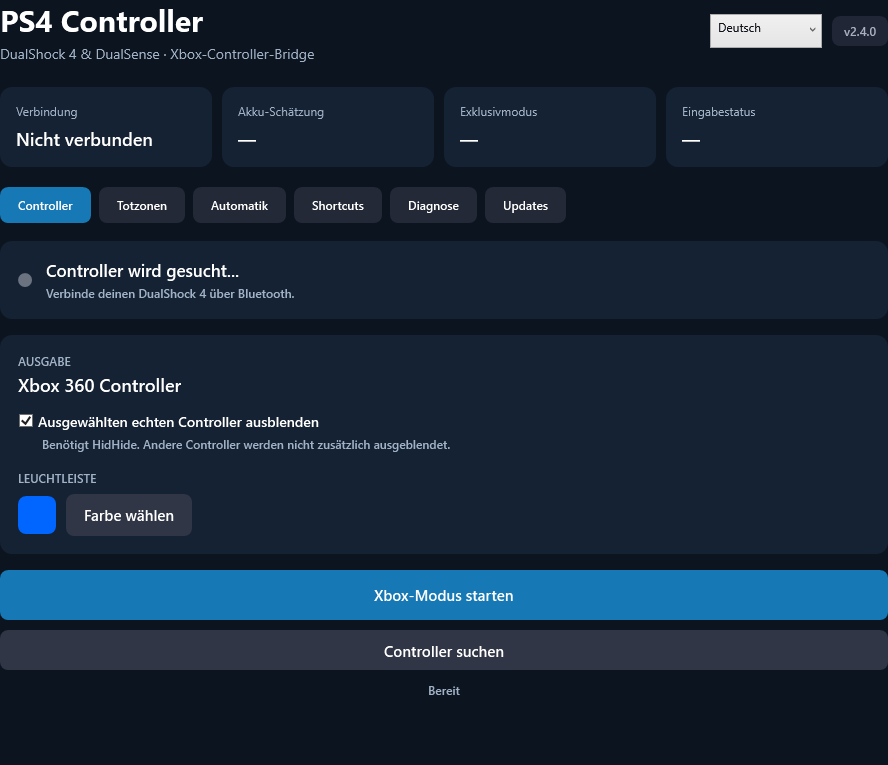
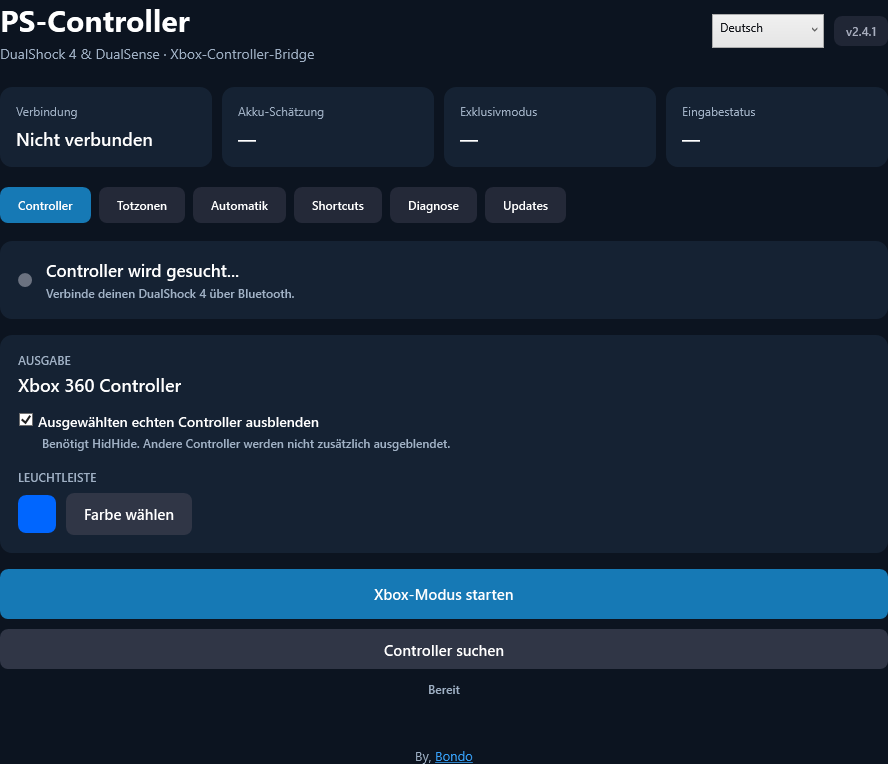
Brand website as PS-Controller

diff --git a/index.html b/index.html
@@ -1,1 +1,1 @@
-<!doctype html><html lang="de"><head><meta charset="utf-8"><meta name="viewport" content="width=device-width,initial-scale=1"><meta name="description" content="PS4 Controller von BondoRL: DualShock 4 und DualSense als Xbox-Controller unter Windows. Download, automatische Updates und Informationen."><title>Dein Controller. Dein Setup. · PS4 Controller</title><link rel="stylesheet" href="style.css"></head><body><header><a class="logo" href="index.html">PS4<span> / </span>Controller</a><nav><a href="index.html" aria-current="page">Übersicht</a><a href="releases.html" >Releases</a><a href="info.html" >Info</a></nav></header><main><div class="hero"><div><div class="eyebrow">BondoRL / Controller Tools</div><h1>Dein Controller.<br>Dein <em>Setup.</em></h1><p class="lead">Spiele mit deinem PS4- oder PS5-Controller unter Windows. Mit Xbox-Ausgabe, anpassbaren Totzonen und Status-Overlays.</p><div class="actions"><a class="button download" href="https://github.com/BondoRL/PS4Controller/releases/latest">Für Windows herunterladen <span>↓</span></a><a class="button secondary" href="info.html">So funktioniert’s ↗</a></div><p class="small">Windows x64 · Installer mit Treiber-Einrichtung · <span class="version">Version 2.4.0</span></p></div><div class="visual"><span class="pill">DUALSHOCK 4 + DUALSENSE</span><svg viewBox="0 0 460 300" fill="none" role="img" aria-label="Stilisierter PlayStation-Controller"><path d="M95 80Q62 80 51 122L24 239Q19 269 43 274Q59 279 79 253L123 203H337L381 253Q401 279 417 274Q441 269 436 239L409 122Q398 80 365 80Z" fill="#172330" stroke="#566d7f" stroke-width="2"/><rect x="155" y="70" width="150" height="90" rx="15" fill="#223541" stroke="#657985"/><path d="M170 74H290" stroke="#7ce4ca" stroke-width="4"/><circle cx="162" cy="198" r="35" fill="#0b141d" stroke="#45616a" stroke-width="2"/><circle cx="298" cy="198" r="35" fill="#0b141d" stroke="#45616a" stroke-width="2"/><circle cx="162" cy="198" r="23" fill="#243b45"/><circle cx="298" cy="198" r="23" fill="#243b45"/><path d="M84 112H102V132H122V150H102V170H84V150H64V132H84Z" fill="#0b141d" stroke="#566d7f"/><circle cx="365" cy="115" r="13" stroke="#7ce4ca" stroke-width="2"/><path d="M359 120L365 109L371 120Z" stroke="#7ce4ca"/><circle cx="365" cy="167" r="13" stroke="#829de6" stroke-width="2"/><path d="M360 162L370 172M370 162L360 172" stroke="#829de6"/><circle cx="339" cy="141" r="13" stroke="#cf8bb5" stroke-width="2"/><rect x="334" y="136" width="10" height="10" stroke="#cf8bb5"/><circle cx="391" cy="141" r="13" stroke="#e5948b" stroke-width="2"/><circle cx="391" cy="141" r="6" stroke="#e5948b"/><circle cx="230" cy="202" r="13" fill="#1b3039" stroke="#7ce4ca"/><path d="M202 22L212 35M230 16V31M258 22L248 35" stroke="#7ce4ca" stroke-width="2" stroke-linecap="round"/></svg><div class="signal"><span>PlayStation-Eingabe</span><b>→ Xbox 360-Ausgabe</b></div></div></div><div class="strip"><span><b>01</b> Ein Installer, inklusive Treiber-Download</span><span><b>02</b> Automatische Update-Suche</span><span><b>03</b> Deine Einstellungen bleiben erhalten</span></div><section><div class="eyebrow">Für dein Spielgefühl</div><h2>Weniger einrichten.<br>Mehr Kontrolle.</h2><div class="grid"><article class="card"><div class="number">01 / INPUT</div><h3>Sticks, die zu dir passen.</h3><p>Totzonenformen, Trigger-Schwellen und Ausgabeverstärkung einstellen. Ruheabweichungen messen und eine Empfehlung bewusst übernehmen.</p></article><article class="card"><div class="number">02 / STATUS</div><h3>Alles im Blick.</h3><p>Akkuschätzung, Verbindungsstatus und Stick-Eingaben anzeigen. Overlays über eigene Tastenkombinationen öffnen.</p></article><article class="card"><div class="number">03 / UPDATES</div><h3>Aktuell bleiben.</h3><p>Neue Releases automatisch finden und herunterladen. Du bestimmst, wann installiert wird — dein Spiel wird nicht automatisch beendet.</p></article></div></section><section><div class="section-head"><div><div class="eyebrow">Die App</div><h2>Klarer Status. Direkte Einstellungen.</h2></div><a href="releases.html">Alle Änderungen ansehen ↗</a></div><img class="shot" src="app-preview.png" alt="PS4 Controller Oberfläche mit Verbindung, Akkuschätzung und Exklusivmodus" loading="lazy"></section></main><footer><span>© 2026 BondoRL · Proprietäre Software</span><span>Windows x64 · DualShock 4 &amp; DualSense</span><a href="https://github.com/BondoRL/PS4Controller/releases">GitHub Releases ↗</a></footer><script src="site.js" defer></script></body></html>
+<!doctype html><html lang="de"><head><meta charset="utf-8"><meta name="viewport" content="width=device-width,initial-scale=1"><meta name="description" content="PS-Controller von BondoRL: DualShock 4 und DualSense als Xbox-Controller unter Windows. Download, automatische Updates und Informationen."><title>Dein Controller. Dein Setup. · PS-Controller</title><link rel="stylesheet" href="style.css"></head><body><header><a class="logo" href="index.html">PS<span>-</span>Controller</a><nav><a href="index.html" aria-current="page">Übersicht</a><a href="releases.html" >Releases</a><a href="info.html" >Info</a></nav></header><main><div class="hero"><div><div class="eyebrow">BondoRL / Controller Tools</div><h1>Dein Controller.<br>Dein <em>Setup.</em></h1><p class="lead">Spiele mit deinem PS4- oder PS5-Controller unter Windows. Mit Xbox-Ausgabe, anpassbaren Totzonen und Status-Overlays.</p><div class="actions"><a class="button download" href="https://github.com/BondoRL/PS4Controller/releases/latest">Für Windows herunterladen <span>↓</span></a><a class="button secondary" href="info.html">So funktioniert’s ↗</a></div><p class="small">Windows x64 · Installer mit Treiber-Einrichtung · <span class="version">Version 2.4.1</span></p></div><div class="visual"><span class="pill">DUALSHOCK 4 + DUALSENSE</span><svg viewBox="0 0 460 300" fill="none" role="img" aria-label="Stilisierter PlayStation-Controller"><path d="M95 80Q62 80 51 122L24 239Q19 269 43 274Q59 279 79 253L123 203H337L381 253Q401 279 417 274Q441 269 436 239L409 122Q398 80 365 80Z" fill="#172330" stroke="#566d7f" stroke-width="2"/><rect x="155" y="70" width="150" height="90" rx="15" fill="#223541" stroke="#657985"/><path d="M170 74H290" stroke="#7ce4ca" stroke-width="4"/><circle cx="162" cy="198" r="35" fill="#0b141d" stroke="#45616a" stroke-width="2"/><circle cx="298" cy="198" r="35" fill="#0b141d" stroke="#45616a" stroke-width="2"/><circle cx="162" cy="198" r="23" fill="#243b45"/><circle cx="298" cy="198" r="23" fill="#243b45"/><path d="M84 112H102V132H122V150H102V170H84V150H64V132H84Z" fill="#0b141d" stroke="#566d7f"/><circle cx="365" cy="115" r="13" stroke="#7ce4ca" stroke-width="2"/><path d="M359 120L365 109L371 120Z" stroke="#7ce4ca"/><circle cx="365" cy="167" r="13" stroke="#829de6" stroke-width="2"/><path d="M360 162L370 172M370 162L360 172" stroke="#829de6"/><circle cx="339" cy="141" r="13" stroke="#cf8bb5" stroke-width="2"/><rect x="334" y="136" width="10" height="10" stroke="#cf8bb5"/><circle cx="391" cy="141" r="13" stroke="#e5948b" stroke-width="2"/><circle cx="391" cy="141" r="6" stroke="#e5948b"/><circle cx="230" cy="202" r="13" fill="#1b3039" stroke="#7ce4ca"/><path d="M202 22L212 35M230 16V31M258 22L248 35" stroke="#7ce4ca" stroke-width="2" stroke-linecap="round"/></svg><div class="signal"><span>PlayStation-Eingabe</span><b>→ Xbox 360-Ausgabe</b></div></div></div><div class="strip"><span><b>01</b> Ein Installer, inklusive Treiber-Download</span><span><b>02</b> Automatische Update-Suche</span><span><b>03</b> Deine Einstellungen bleiben erhalten</span></div><section><div class="eyebrow">Für dein Spielgefühl</div><h2>Weniger einrichten.<br>Mehr Kontrolle.</h2><div class="grid"><article class="card"><div class="number">01 / INPUT</div><h3>Sticks, die zu dir passen.</h3><p>Totzonenformen, Trigger-Schwellen und Ausgabeverstärkung einstellen. Ruheabweichungen messen und eine Empfehlung bewusst übernehmen.</p></article><article class="card"><div class="number">02 / STATUS</div><h3>Alles im Blick.</h3><p>Akkuschätzung, Verbindungsstatus und Stick-Eingaben anzeigen. Overlays über eigene Tastenkombinationen öffnen.</p></article><article class="card"><div class="number">03 / UPDATES</div><h3>Aktuell bleiben.</h3><p>Neue Releases automatisch finden und herunterladen. Du bestimmst, wann installiert wird — dein Spiel wird nicht automatisch beendet.</p></article></div></section><section><div class="section-head"><div><div class="eyebrow">Die App</div><h2>Klarer Status. Direkte Einstellungen.</h2></div><a href="releases.html">Alle Änderungen ansehen ↗</a></div><img class="shot" src="app-preview.png" alt="PS-Controller Oberfläche mit Verbindung, Akkuschätzung und Exklusivmodus" loading="lazy"></section></main><footer><span>© 2026 BondoRL · Proprietäre Software</span><span>Windows x64 · DualShock 4 &amp; DualSense</span><a href="https://github.com/BondoRL/PS4Controller/releases">GitHub Releases ↗</a></footer><script src="site.js" defer></script></body></html>

diff --git a/info.html b/info.html
@@ -1,1 +1,1 @@
-<!doctype html><html lang="de"><head><meta charset="utf-8"><meta name="viewport" content="width=device-width,initial-scale=1"><meta name="description" content="PS4 Controller von BondoRL: DualShock 4 und DualSense als Xbox-Controller unter Windows. Download, automatische Updates und Informationen."><title>Information & Einrichtung · PS4 Controller</title><link rel="stylesheet" href="style.css"></head><body><header><a class="logo" href="index.html">PS4<span> / </span>Controller</a><nav><a href="index.html" >Übersicht</a><a href="releases.html" >Releases</a><a href="info.html" aria-current="page">Info</a></nav></header><main><div class="page-head"><div class="eyebrow">Gut zu wissen</div><h1>In wenigen Schritten<br>spielbereit.</h1><p class="lead">Der Installer richtet die App ein und lädt die benötigten Treiber bei Bedarf von den offiziellen Hersteller-Releases herunter.</p></div><section class="info"><article><h2>01 — Installieren</h2><p>Den Windows-Installer herunterladen und ausführen. Für ViGEmBus und HidHide sind Administratorrechte und eine Internetverbindung erforderlich. Bereits vorhandene Treiberdienste werden erkannt. Falls verlangt, Windows neu starten.</p><p>ViGEmBus erstellt den virtuellen Xbox-Controller. HidHide blendet den ausgewählten echten Controller aus, um doppelte Eingaben zu vermeiden. .NET ist bereits enthalten.</p></article><article><h2>02 — Controller verbinden</h2><p>DualShock 4 oder DualSense per USB anschließen oder über Windows-Bluetooth koppeln. Für die Kopplung am PS4-Controller SHARE + PS, am PS5-Controller Create + PS gedrückt halten, bis die Leuchtleiste blinkt.</p><p>Andere Controller-Mapper wie DS4Windows vollständig beenden. Dann in der App den Controller suchen und den Xbox-Modus starten.</p></article><article><h2>03 — Updates erhalten</h2><p>Ab Version 2.4 sucht die App beim Start und alle sechs Stunden nach neuen Releases, wenn automatische Updates aktiviert sind. Downloads werden per SHA-256 geprüft. Zum Installieren im Updates-Reiter auf „Update installieren“ klicken. Deine Einstellungen bleiben erhalten.</p><p>Wer noch Version 2.3 verwendet, installiert einmal den neuen Installer. Diese ältere Version besitzt noch keine automatische Update-Suche.</p></article><article><h2>Privater Code. Öffentliche Downloads.</h2><p>PS4 Controller ist proprietäre Software von BondoRL. Der App-Quellcode liegt in einem privaten Repository und wird nicht veröffentlicht. Die fertigen Installer und Versionsinformationen sind öffentlich zugänglich. Die Website-Dateien sind wie bei jeder öffentlichen Website einsehbar.</p><p>Enthaltene Drittkomponenten behalten ihre eigenen Lizenzen. Lizenzhinweise werden mit der App installiert. Die fertigen Installer dürfen unverändert weitergegeben werden.</p></article><article><h2>Wenn etwas nicht funktioniert</h2><p>Im Reiter „Diagnose“ das Protokoll öffnen. Es bleibt auf dem PC und wird nicht automatisch hochgeladen. Bluetooth-Adapter, Firmware und Spiele können sich unterschiedlich verhalten; es gibt keine Garantie für jedes Setup.</p><p>Die App und der Installer sind derzeit nicht mit einem eigenen Herausgeberzertifikat signiert. Windows kann deshalb einen Hinweis zum unbekannten Herausgeber zeigen.</p><p>Offizielle Treiberinformationen: <a href="https://docs.nefarius.at/projects/HidHide/">HidHide</a> und <a href="https://docs.nefarius.at/projects/ViGEm/">ViGEmBus</a>. ViGEmBus wird vom Hersteller nicht mehr aktiv weiterentwickelt.</p></article></section></main><footer><span>© 2026 BondoRL · Proprietäre Software</span><span>Windows x64 · DualShock 4 &amp; DualSense</span><a href="https://github.com/BondoRL/PS4Controller/releases">GitHub Releases ↗</a></footer><script src="site.js" defer></script></body></html>
+<!doctype html><html lang="de"><head><meta charset="utf-8"><meta name="viewport" content="width=device-width,initial-scale=1"><meta name="description" content="PS-Controller von BondoRL: DualShock 4 und DualSense als Xbox-Controller unter Windows. Download, automatische Updates und Informationen."><title>Information & Einrichtung · PS-Controller</title><link rel="stylesheet" href="style.css"></head><body><header><a class="logo" href="index.html">PS<span>-</span>Controller</a><nav><a href="index.html" >Übersicht</a><a href="releases.html" >Releases</a><a href="info.html" aria-current="page">Info</a></nav></header><main><div class="page-head"><div class="eyebrow">Gut zu wissen</div><h1>In wenigen Schritten<br>spielbereit.</h1><p class="lead">Der Installer richtet die App ein und lädt die benötigten Treiber bei Bedarf von den offiziellen Hersteller-Releases herunter.</p></div><section class="info"><article><h2>01 — Installieren</h2><p>Den Windows-Installer herunterladen und ausführen. Für ViGEmBus und HidHide sind Administratorrechte und eine Internetverbindung erforderlich. Bereits vorhandene Treiberdienste werden erkannt. Falls verlangt, Windows neu starten.</p><p>ViGEmBus erstellt den virtuellen Xbox-Controller. HidHide blendet den ausgewählten echten Controller aus, um doppelte Eingaben zu vermeiden. .NET ist bereits enthalten.</p></article><article><h2>02 — Controller verbinden</h2><p>DualShock 4 oder DualSense per USB anschließen oder über Windows-Bluetooth koppeln. Für die Kopplung am PS4-Controller SHARE + PS, am PS5-Controller Create + PS gedrückt halten, bis die Leuchtleiste blinkt.</p><p>Andere Controller-Mapper wie DS4Windows vollständig beenden. Dann in der App den Controller suchen und den Xbox-Modus starten.</p></article><article><h2>03 — Updates erhalten</h2><p>Ab Version 2.4 sucht die App beim Start und alle sechs Stunden nach neuen Releases, wenn automatische Updates aktiviert sind. Downloads werden per SHA-256 geprüft. Zum Installieren im Updates-Reiter auf „Update installieren“ klicken. Deine Einstellungen bleiben erhalten.</p><p>Wer noch Version 2.3 verwendet, installiert einmal den neuen Installer. Diese ältere Version besitzt noch keine automatische Update-Suche.</p></article><article><h2>Privater Code. Öffentliche Downloads.</h2><p>PS-Controller ist proprietäre Software von BondoRL. Der App-Quellcode liegt in einem privaten Repository und wird nicht veröffentlicht. Die fertigen Installer und Versionsinformationen sind öffentlich zugänglich. Die Website-Dateien sind wie bei jeder öffentlichen Website einsehbar.</p><p>Enthaltene Drittkomponenten behalten ihre eigenen Lizenzen. Lizenzhinweise werden mit der App installiert. Die fertigen Installer dürfen unverändert weitergegeben werden.</p></article><article><h2>Wenn etwas nicht funktioniert</h2><p>Im Reiter „Diagnose“ das Protokoll öffnen. Es bleibt auf dem PC und wird nicht automatisch hochgeladen. Bluetooth-Adapter, Firmware und Spiele können sich unterschiedlich verhalten; es gibt keine Garantie für jedes Setup.</p><p>Die App und der Installer sind derzeit nicht mit einem eigenen Herausgeberzertifikat signiert. Windows kann deshalb einen Hinweis zum unbekannten Herausgeber zeigen.</p><p>Offizielle Treiberinformationen: <a href="https://docs.nefarius.at/projects/HidHide/">HidHide</a> und <a href="https://docs.nefarius.at/projects/ViGEm/">ViGEmBus</a>. ViGEmBus wird vom Hersteller nicht mehr aktiv weiterentwickelt.</p></article></section></main><footer><span>© 2026 BondoRL · Proprietäre Software</span><span>Windows x64 · DualShock 4 &amp; DualSense</span><a href="https://github.com/BondoRL/PS4Controller/releases">GitHub Releases ↗</a></footer><script src="site.js" defer></script></body></html>

diff --git a/releases.html b/releases.html
@@ -1,1 +1,1 @@
-<!doctype html><html lang="de"><head><meta charset="utf-8"><meta name="viewport" content="width=device-width,initial-scale=1"><meta name="description" content="PS4 Controller von BondoRL: DualShock 4 und DualSense als Xbox-Controller unter Windows. Download, automatische Updates und Informationen."><title>Releases & Downloads · PS4 Controller</title><link rel="stylesheet" href="style.css"></head><body><header><a class="logo" href="index.html">PS4<span> / </span>Controller</a><nav><a href="index.html" >Übersicht</a><a href="releases.html" aria-current="page">Releases</a><a href="info.html" >Info</a></nav></header><main><div class="page-head"><div class="eyebrow">Release-Verlauf</div><h1>Was gibt’s Neues?</h1><p class="lead">Offizielle Versionen, Änderungen und Downloads. Der Installer lädt fehlende Treiber automatisch nach.</p><div class="actions"><a class="button download" href="https://github.com/BondoRL/PS4Controller/releases/latest">Aktuelle Version herunterladen ↓</a></div></div><section id="releases" aria-live="polite"><p class="empty">Release-Informationen werden geladen. <a href="https://github.com/BondoRL/PS4Controller/releases">Alternativ auf GitHub öffnen ↗</a></p></section></main><footer><span>© 2026 BondoRL · Proprietäre Software</span><span>Windows x64 · DualShock 4 &amp; DualSense</span><a href="https://github.com/BondoRL/PS4Controller/releases">GitHub Releases ↗</a></footer><script src="site.js" defer></script></body></html>
+<!doctype html><html lang="de"><head><meta charset="utf-8"><meta name="viewport" content="width=device-width,initial-scale=1"><meta name="description" content="PS-Controller von BondoRL: DualShock 4 und DualSense als Xbox-Controller unter Windows. Download, automatische Updates und Informationen."><title>Releases & Downloads · PS-Controller</title><link rel="stylesheet" href="style.css"></head><body><header><a class="logo" href="index.html">PS<span>-</span>Controller</a><nav><a href="index.html" >Übersicht</a><a href="releases.html" aria-current="page">Releases</a><a href="info.html" >Info</a></nav></header><main><div class="page-head"><div class="eyebrow">Release-Verlauf</div><h1>Was gibt’s Neues?</h1><p class="lead">Offizielle Versionen, Änderungen und Downloads. Der Installer lädt fehlende Treiber automatisch nach.</p><div class="actions"><a class="button download" href="https://github.com/BondoRL/PS4Controller/releases/latest">Aktuelle Version herunterladen ↓</a></div></div><section id="releases" aria-live="polite"><p class="empty">Release-Informationen werden geladen. <a href="https://github.com/BondoRL/PS4Controller/releases">Alternativ auf GitHub öffnen ↗</a></p></section></main><footer><span>© 2026 BondoRL · Proprietäre Software</span><span>Windows x64 · DualShock 4 &amp; DualSense</span><a href="https://github.com/BondoRL/PS4Controller/releases">GitHub Releases ↗</a></footer><script src="site.js" defer></script></body></html>

diff --git a/README.md b/README.md
@@ -1,4 +1,4 @@
-# PS4 Controller
+# PS-Controller
 
 Official downloads and product website: https://bondorl.github.io/PS4Controller/
 
